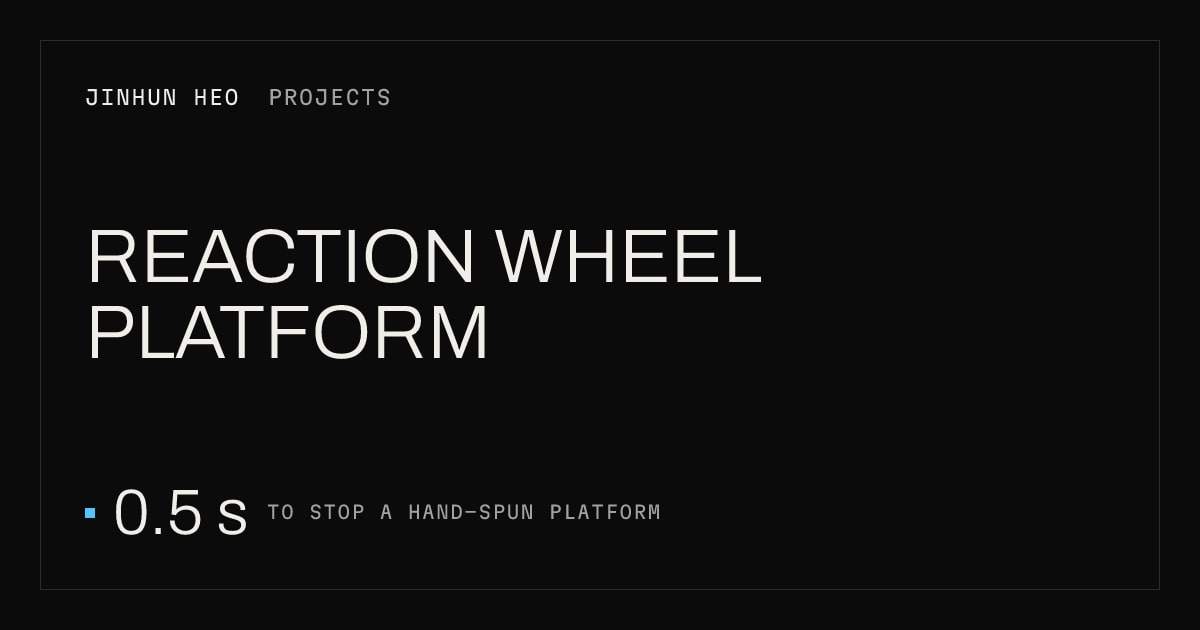
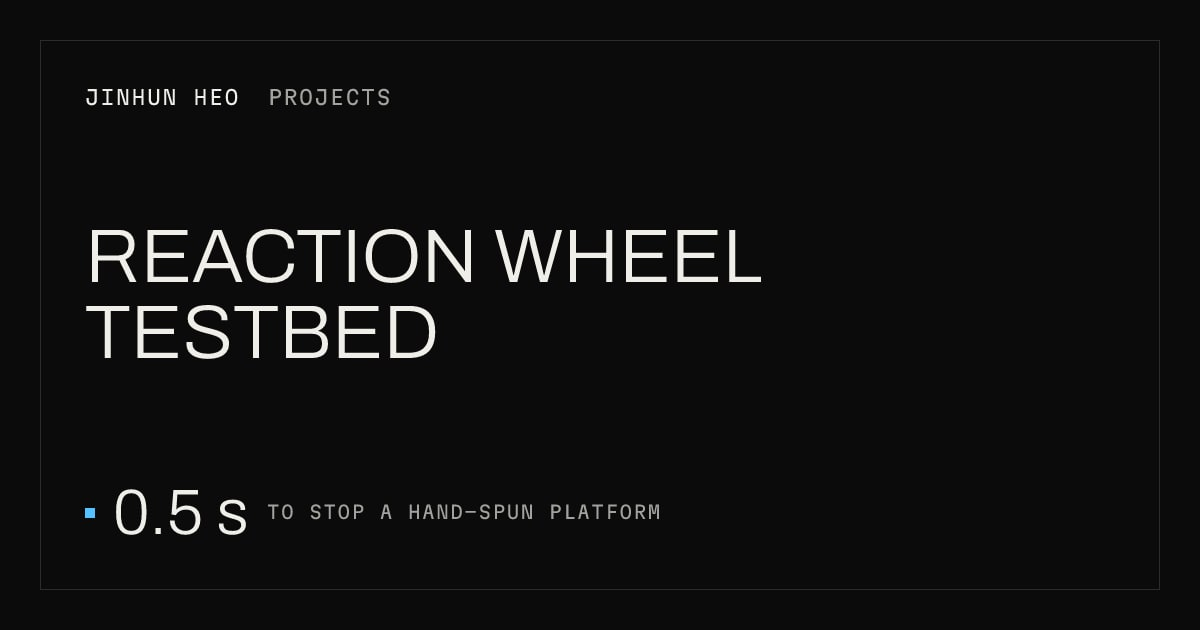
Rework the reaction wheel page and stop the gallery heading overlapping
- Rename the project to "Reaction wheel testbed" and rewrite its summary,
  overview and first caption.
- Replace "Control and tracking" and "Hardware and power" with a "My role"
  section (Hardware, Wiring and power, Control and tracking), like the Husky
  page.
- Drop the percentage metrics; keep the 0.5 s result.
- Link reports only from the project page's Report section, so every home
  page card shows just "Learn more".
- The Gallery heading no longer sticks while scrolling, so it can't slide
  over the full-width figures.
- Regenerate the project's social preview for the new title.

Changed region(s): [[0.0617, 0.4825, 0.4317, 0.573]]

diff --git a/src/site/components.ts b/src/site/components.ts
@@ -129,7 +129,8 @@ export function figureSpans(content: Content, items: GalleryItem[]): Span[] {
 
 /**
  * Home page project row: image (or an empty space until one is added) beside
- * the title, summary, "Learn more" and any documents.
+ * the title, summary and "Learn more". Reports are linked only from the project
+ * page's Report section, so every card looks the same.
  */
 export function projectCard(content: Content, p: Project, more: string): Raw {
 	const href = `/projects/${p.slug}/`;
@@ -144,7 +145,6 @@ export function projectCard(content: Content, p: Project, more: string): Raw {
 			<p class="card__text">${p.summary}</p>
 			<div class="card__actions">
 				<a class="btn btn--primary" href="${href}">${more}<span class="visually-hidden"> about ${p.title}</span></a>
-				${p.documents.map((d) => documentLink(content, d, "btn"))}
 			</div>
 		</div>
 	</li>`;

diff --git a/src/site/pages.ts b/src/site/pages.ts
@@ -67,9 +67,6 @@ export function projectPage(ctx: RenderContext, project: Project): PageOut {
 			<p class="crumb label"><a href="${PROJECTS}">Projects</a> <span aria-hidden="true">/</span> ${site.categories[project.category]}</p>
 			<h1 class="project__title display">${project.title}</h1>
 			<p class="lede">${project.summary}</p>
-			${project.documents.length
-				? html`<div class="actions">${project.documents.map((d, i) => documentLink(ctx.content, d, i === 0 ? "btn btn--primary" : "btn"))}</div>`
-				: ""}
 			${titleBlock(ctx.content, project)}
 		</header>
 		${project.metrics.length

diff --git a/src/client/styles/main.css b/src/client/styles/main.css
@@ -382,6 +382,10 @@ main {
 		position: sticky;
 		top: 24px;
 	}
+	/* The gallery heading sits above full-width figures; sticking would slide it over them. */
+	.band--figures > .section-head {
+		position: static;
+	}
 	.band > .band__body {
 		grid-column: 4 / 13;
 	}

diff --git a/content/projects/reaction-wheel.md b/content/projects/reaction-wheel.md
@@ -1,30 +1,22 @@
 ---
-title: Reaction wheel platform
+title: Reaction wheel testbed
 category: research
 order: 2
 org: Freshman Research Initiative, Space & Robotics Stream
 role: Student researcher
 dates: Jan – May 2026
 skills: [Onshape, Raspberry Pi, PID control, OpenCV, Flask, H-bridge + PWM]
-description: "A reaction wheel platform: PID control that stops a hand spin in 0.5 s, OpenCV target tracking under shaking, and a lighter motor support."
+description: "A reaction wheel testbed that stabilizes a rotating platform, stopping a hand spin within 0.5 s, and autonomously tracks a colored target."
 summary: >-
-  A platform that turns itself with a reaction wheel. I tuned its control loops to stop
-  a hand spin within 0.5 s and to keep tracking a colored target while the target is
-  shaken, and designed its motor support.
+  A semester-long project where I designed, manufactured, wired and programmed a
+  reaction wheel testbed that uses the conservation of angular momentum to stabilize a
+  rotating platform and autonomously track a colored object. In the real world, the
+  same idea is used to control the orientation of a spacecraft.
 metrics:
   - value: "0.5"
     unit: s
     label: to stop a hand-spun platform
     featured: true
-  - value: "89"
-    unit: "%"
-    label: continuous tracking of a shaking target
-  - value: "11"
-    unit: "%"
-    label: lower battery consumption
-  - value: "29"
-    unit: "%"
-    label: less tipping
 cover: rw-card
 documents:
   - file: Reaction-Wheel-Final-Report.pdf
@@ -36,7 +28,7 @@ figures:
   - image: rw-platform
     kind: photo
     alt: The reaction wheel testbed on a table, with a purple wheel ringed with bolts on top, a motor inside a white pillar support, a Raspberry Pi, battery and toggle switch on the platform, and a round white base.
-    caption: The finished testbed. Bolts around the wheel's rim add inertia.
+    caption: Reaction wheel testbed. Bolts around the wheel's rim add inertia.
   - video: rw-disturbance
     image: rw-disturbance-poster
     kind: video
@@ -63,26 +55,37 @@ figures:
 
 ## Project overview
 
-A reaction wheel is a flywheel driven by a motor. Speed the wheel up one way and the
-platform it is mounted on turns the other way; satellites use the same principle to
-point themselves. Our team of four built a testbed that uses it to hold still against
-pushes and to turn toward a green target its camera sees, in the Space & Robotics
-stream of UT Austin's Freshman Research Initiative.
+A reaction wheel is a flywheel driven by a motor. When the motor spins the wheel one
+way, the platform it is mounted on turns the other way, because angular momentum is
+conserved. Satellites use the same principle to change their orientation. Our team of
+four built a testbed around it in the Space & Robotics stream of UT Austin's Freshman
+Research Initiative.
 
-## Control and tracking
+To show that the testbed can turn to exactly where we want it, and get there quickly,
+we demonstrated that it accurately tracks an optical target and rejects outside
+disturbances, coming to a stop within seconds.
 
-- A closed-loop PID controller brings a hand-spun platform to a stop within 0.5 s.
-- A dual-loop PID architecture takes target positions from real-time OpenCV tracking,
-  and kept 89% continuous tracking on colored targets under violent shaking.
-- A Flask web interface streams the live camera feed with a crosshair and bounding-box
-  overlay, so tracking can be checked by eye while it runs.
+## My role
 
-## Hardware and power
+My contribution covered every part of the engineering: the hardware, the wiring, and
+the programming and control. Safety was a goal throughout, so that no circuit could
+short and the 3D-printed parts connecting the systems wouldn't wear or break. I also
+wanted the code and PID controller to run smoothly, without jerky motions or
+overshoot.
 
-- I designed the motor support in Onshape: a hollow cylinder with four pillars instead
-  of walls, so wires stay easy to reach, bolted to the platform and bearing instead of
-  relying on a friction fit. The weight-optimized design cut battery consumption by 11%
-  and tipping by 29%.
-- An H-bridge gives bidirectional motor control with PWM duty-cycle modulation.
-- Wire gauges sized from calculated peak current loads, to limit heating and keep the
-  power system efficient.
+**Hardware.** I designed the motor housing in Onshape with four pillars instead of
+solid walls, so the wiring stays easy to reach for troubleshooting and reconfiguration.
+The motor attaches at the top using its own screw holes, instead of relying on a
+friction fit at the bottom, which would be less sturdy.
+
+**Wiring and power.** I designed the overall system circuitry, with a fuse at the start
+for safety and an H-bridge for bidirectional motor control using PWM. I also brought
+the system together physically, soldering wires to the electronics and heat-shrinking
+exposed wires for safety. Wire gauges are sized from calculated peak current loads, to
+limit heating and keep the power system efficient.
+
+**Control and tracking.** I tuned a PID control loop that brings a disturbed platform
+(spun by hand, for example) to a stop within 0.5 s, and developed a dual-loop PID
+architecture that continuously tracks an optical target. A Flask web monitoring
+interface streams the live camera view with a crosshair overlay, so you can see how
+well the system is tracking.
